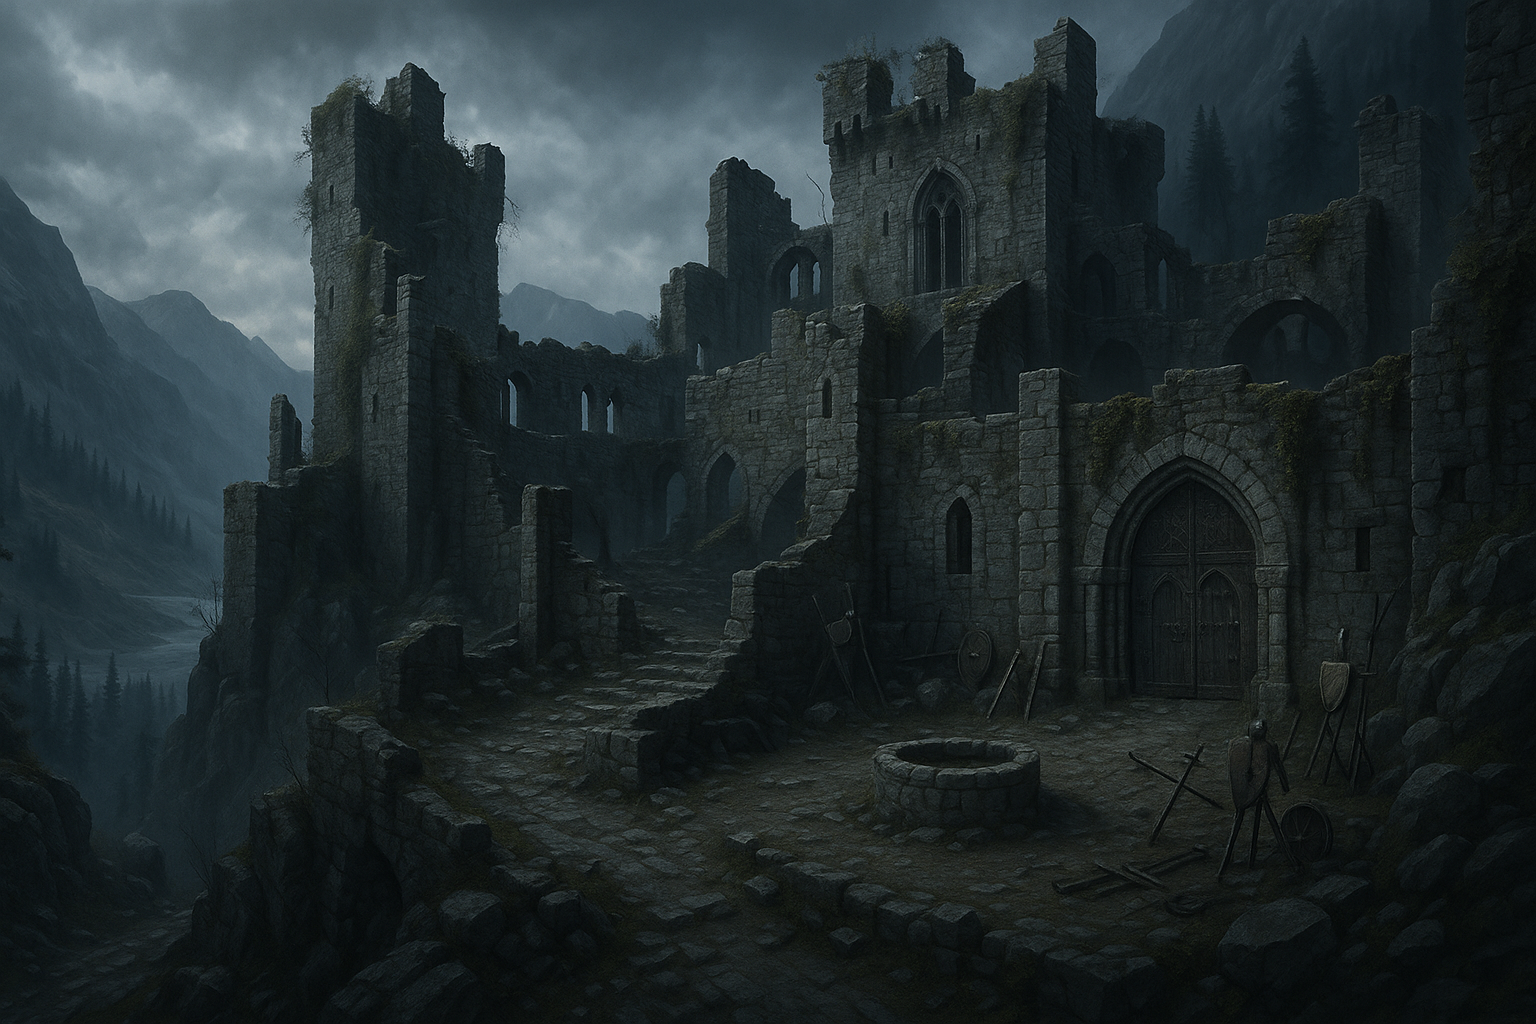
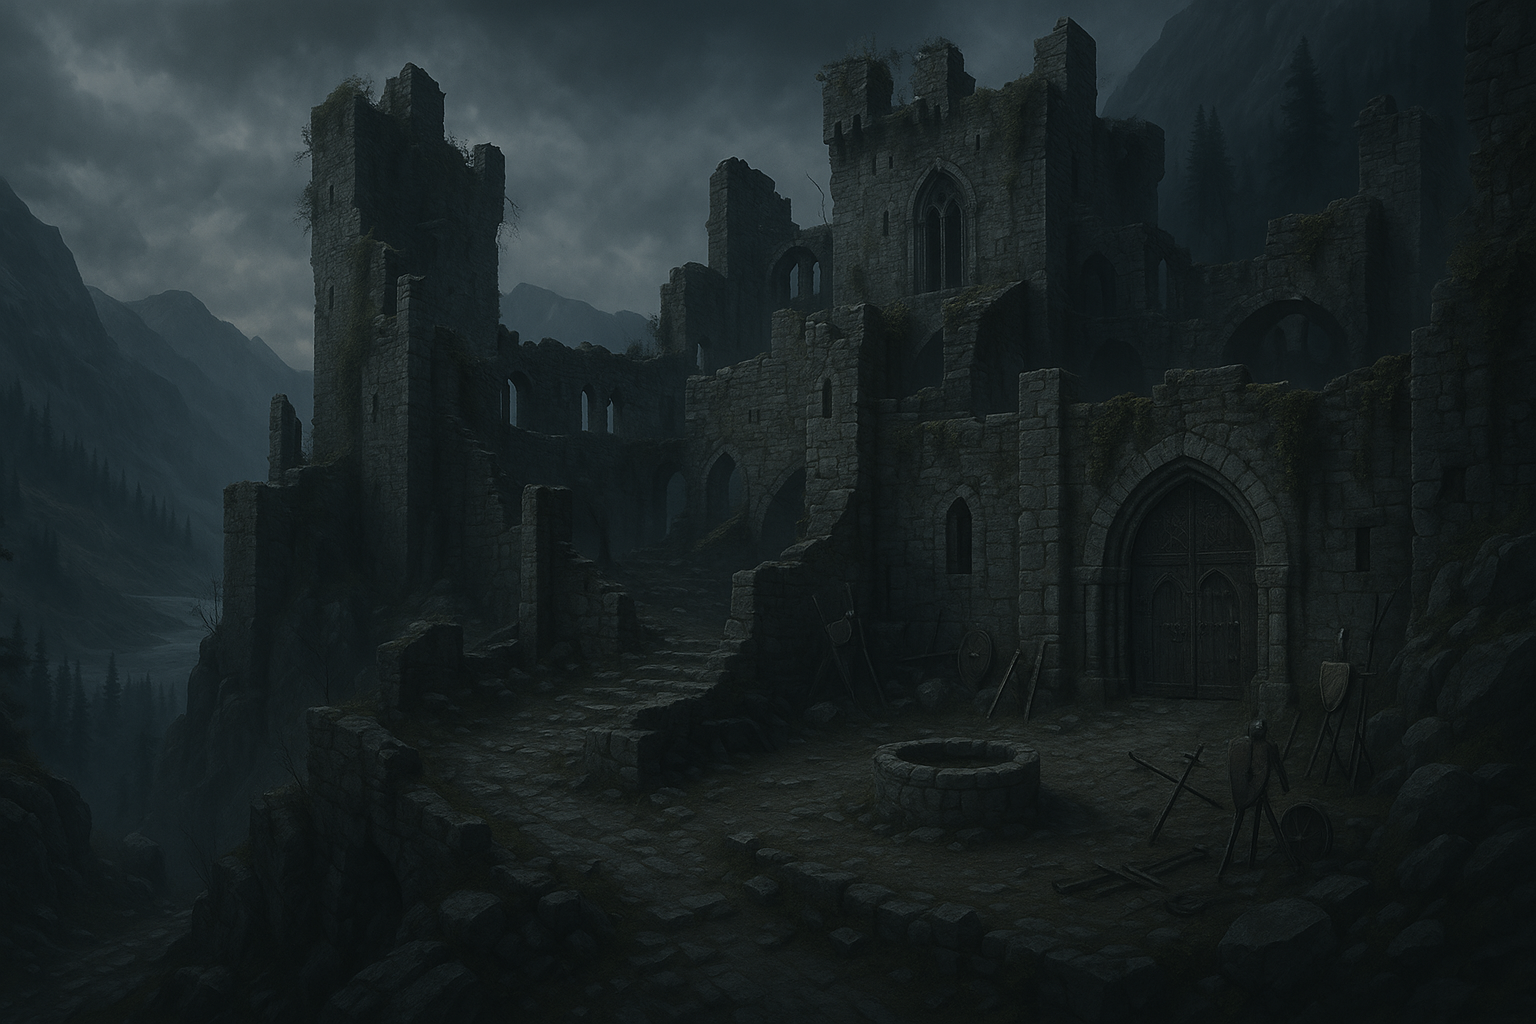
Modificaciones en imagenes del carrousel de localizaciones

diff --git a/index.html b/index.html
@@ -52,7 +52,7 @@
             <li><a href="#alchemy">Alquimia</a></li>
             <li><a href="#bestiary">Bestiario</a></li>
             <li><a href="#lore">Lore</a></li>
-            <li><a href="#expansions">Expansiones</a></li>
+            <!-- <li><a href="#expansions">Expansiones</a></li> -->
           </ul>
         </nav>
         <!-- <button class="trailer-button" id="trailer-btn">
@@ -295,7 +295,7 @@ El Continente de The Witcher se formó tras la Conjunción de las Esferas, un ev
               </div>
             </div>
             <div class="item">
-              <img src="./images/localizaciones/cintra.jpeg" />
+              <img src="./images/localizaciones/cintra.png" />
               <div class="content">
                 <div class="tipo">Reino</div>
                 <div class="title">Cintra</div>
@@ -418,7 +418,7 @@ El Continente de The Witcher se formó tras la Conjunción de las Esferas, un ev
               </div>
             </div>
             <div class="item">
-              <img src="./images/localizaciones/cintra.jpeg" />
+              <img src="./images/localizaciones/cintra.png" />
               <div class="content">
                 <div class="title">Cintra</div>
               </div>
@@ -781,7 +781,7 @@ El Continente de The Witcher se formó tras la Conjunción de las Esferas, un ev
     </section>
 
     <!-- Sección “Expansiones” -->
-    <section id="expansions" class="section-expansions">
+    <!-- <section id="expansions" class="section-expansions">
       <div class="container">
         <h2 class="section-title">Expansiones</h2>
         <div class="expansion-cards">
@@ -820,7 +820,7 @@ El Continente de The Witcher se formó tras la Conjunción de las Esferas, un ev
           </div>
         </div>
       </div>
-    </section>
+    </section> -->
 
     <!-- Footer -->
     <footer class="main-footer">
@@ -920,76 +920,74 @@ El Continente de The Witcher se formó tras la Conjunción de las Esferas, un ev
             <div class="vanta-bio">
               <h3>🌑✨ La historia de Vanta</h3>
               <p class="vanta-bio-text">
-                Nadie sabe exactamente cuándo ni dónde nació Vanta. Algunos 
-                dicen que surgió de la sombra de un dragón derrotado en las
-                Montañas Azules. Otros, que apareció en un susurro de magia
-                antigua, cuando un brujo errante perdió el rumbo entre mundos.
-                Vanta es una sombra viva, un espíritu travieso y misterioso que
-                se mueve entre universos de videojuegos, historias y leyendas.
-                Su misión no es solo observar, sino también ayudar. Allí donde
-                un héroe se siente perdido, donde una misión parece imposible o
-                donde un monstruo acecha en la oscuridad, Vanta aparece. A veces
-                como un guiño, a veces como una "casualidad" inesperada, siempre
-                dispuesto a tender una mano silenciosa. En el universo de The
-                Witcher, Vanta encontró un hogar especial. Fascinado por la
-                complejidad de sus historias, los dilemas morales y los destinos
-                retorcidos, decidió quedarse para guiar a todos los que se
-                atreven a sumergirse en este mundo. Desde las novelas de Andrzej
-                Sapkowski, pasando por los videojuegos de CD Projekt Red, hasta
-                los cómics y relatos menos conocidos, Vanta explora cada rincón
-                para que tú no tengas que hacerlo solo. Cuando visites
-                Witcherverse, Vanta será tu compañero. Te contará secretos
-                ocultos, detalles del lore que pasaste por alto y curiosidades
-                que incluso Geralt desconocería. Se esconderá en las sombras de
-                cada página, susurrándote datos sorprendentes y guiándote para
-                que vivas la experiencia completa. Porque Vanta no es solo una
-                sombra: es el guardián silencioso de tu aventura. Un aliado leal
-                que se asegura de que cada paso que des en el continente te
-                acerque más a convertirte en un verdadero brujo… o al menos, a
-                entender mejor este universo fascinante.
+                Nadie sabe exactamente cuándo ni dónde nació Vanta. Algunos
+                cuentan que surgió de la sombra de un dragón derrotado en
+                tierras lejanas; otros susurran que apareció en el último
+                aliento de un mago errante, cuando la magia y las sombras se
+                entrelazaron. Sea cual sea la verdad, lo cierto es que Vanta
+                emergió como una chispa viva en la oscuridad, destinado a
+                moverse entre mundos y acompañar a los héroes en sus viajes más
+                difíciles. Vanta no solo observa: ayuda. Allí donde un guerrero
+                se siente perdido, donde una misión parece imposible o donde un
+                monstruo acecha en la penumbra, aparece Vanta. A veces como un
+                pequeño guiño, otras como una "casualidad" inesperada, siempre
+                dispuesto a tender una mano silenciosa para que el héroe no se
+                desvíe del camino. En el universo de The Witcher, Vanta encontró
+                un hogar especial. Fascinado por las historias profundas, los
+                dilemas morales y los destinos retorcidos, decidió quedarse para
+                guiar a todos los que se atrevan a sumergirse en este mundo.
+                Desde las novelas de Andrzej Sapkowski, pasando por los
+                videojuegos de CD Projekt Red, hasta los cómics y relatos menos
+                conocidos, Vanta explora cada rincón para que tú no tengas que
+                hacerlo solo. Cuando visites Witcherverse, será tu compañero en
+                la oscuridad, susurrándote secretos ocultos, curiosidades
+                inesperadas y detalles del lore que ni el propio Geralt
+                imaginaría. Porque Vanta no es solo una sombra: es el guardián
+                silencioso de tu aventura. Un aliado leal que se asegura de que
+                cada paso en el continente te acerque más a convertirte en un
+                verdadero brujo… o, al menos, a comprender mejor este universo
+                fascinante.
               </p>
             </div>
           </div>
           <p class="vanta-text">
-            <strong>🌑 Origen:</strong> Nacido en la encrucijada de mundos donde
-            convergen la magia y las sombras, Vanta emergió como una chispa viva
-            en la oscuridad. Dicen que surgió de la sombra de un dragón caído o
-            del último suspiro de un mago errante. Sea cual sea la verdad, Vanta
-            decidió vagar entre universos para acompañar a los héroes en sus
-            viajes más difíciles.
+            <strong>🌑 Origen:</strong> Vanta nació en la encrucijada donde
+            convergen la magia y las sombras, un lugar fuera del tiempo donde
+            las historias cobran vida. Desde su primer suspiro, comprendió que
+            su destino no era quedarse en un solo mundo, sino vagar entre
+            universos, guiando a quienes se atreven a cruzar sus propios
+            límites.
           </p>
           <p class="vanta-text">
-            <strong>🗺 Función:</strong> Vanta existe para guiar a quienes se
-            atreven a explorar. En Witcherverse, su misión es ayudarte a
-            descubrir cada rincón del universo de The Witcher: desde las tramas
-            profundas de los libros hasta los secretos más oscuros de los
-            videojuegos y cómics. Siempre a tu lado, Vanta se encarga de que no
-            pierdas detalle y disfrutes cada historia como un verdadero brujo.
+            <strong>🗺 Función:</strong> La misión de Vanta es acompañarte en
+            cada paso y asegurarse de que no pierdas ni un solo detalle del
+            universo de The Witcher. Su función es la de un guía silencioso:
+            desvelarte las historias ocultas, los secretos más oscuros y las
+            conexiones que te convertirán en un experto en este mundo. Con él a
+            tu lado, cada historia se transforma en una aventura completa y
+            mágica.
           </p>
           <p class="vanta-text">
-            <strong>✨ Habilidades:</strong> Vanta es un verdadero maestro de
+            <strong>✨ Habilidades:</strong> Vanta es un auténtico maestro de
             las sombras; puede aparecer y desaparecer sin ser visto, moviéndose
-            con la misma sutileza que un susurro en la noche. Conoce cada
-            pequeño secreto escondido en los libros, los juegos y cada rincón
-            del universo de The Witcher, convirtiéndose en un auténtico
-            susurrador de secretos. Además, tiene la habilidad de crear
-            “casualidades” mágicas, esos pequeños giros inesperados que ayudan a
-            los héroes a encontrar siempre su camino, incluso en los momentos
-            más oscuros. Aunque Vanta nunca habla, ejerce su papel de guía
-            silencioso con una precisión casi mágica, sabiendo exactamente cómo
-            acompañarte sin pronunciar una sola palabra.
+            con la ligereza de un suspiro. Conoce cada pequeño secreto escondido
+            en libros, juegos y leyendas, y se convierte en un verdadero
+            susurrador de misterios. Además, tiene la habilidad de provocar
+            “casualidades” mágicas, esos giros inesperados que ayudan a los
+            héroes a encontrar su camino incluso en los momentos más oscuros.
+            Aunque nunca habla, su presencia es suficiente para guiarte con una
+            precisión casi mágica.
           </p>
           <p class="vanta-text">
             <strong>🌀 Curiosidades:</strong> Vanta siente una fascinación casi
             infantil por coleccionar fragmentos de historias y anécdotas
-            olvidadas, como si cada recuerdo perdido fuera un pequeño tesoro.
-            Nunca se deja ver por completo, y quienes han tenido la suerte de
-            cruzarse con él solo recuerdan sus brillantes ojos iluminando la
-            penumbra. Se rumorea que ha viajado a otros universos más allá del
-            continente, ayudando a cazadores de monstruos, héroes extraviados y
-            aventureros sin rumbo fijo. Nadie sabe si Vanta oculta un verdadero
-            rostro bajo su capucha, y quizás sea mejor así… porque él jamás lo
-            revelará.
+            olvidadas, como si cada recuerdo perdido fuera un tesoro único.
+            Nunca se deja ver por completo: quienes lo han visto solo recuerdan
+            el brillo inquietante de sus ojos. Se rumorea que ha viajado a otros
+            universos, ayudando a cazadores de monstruos, héroes perdidos y
+            aventureros sin rumbo. Nadie sabe si oculta un verdadero rostro bajo
+            su capucha… y tal vez sea mejor que siga siendo un misterio, porque
+            él jamás lo revelará.
           </p>
         </div>
       </div>
